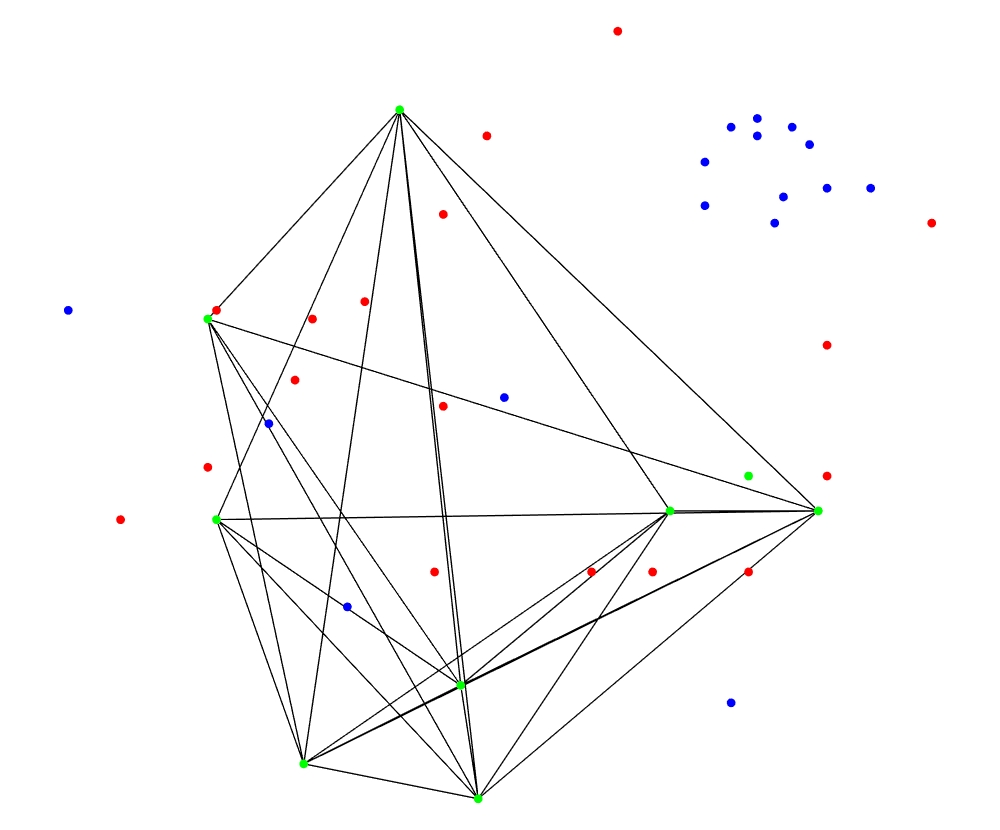
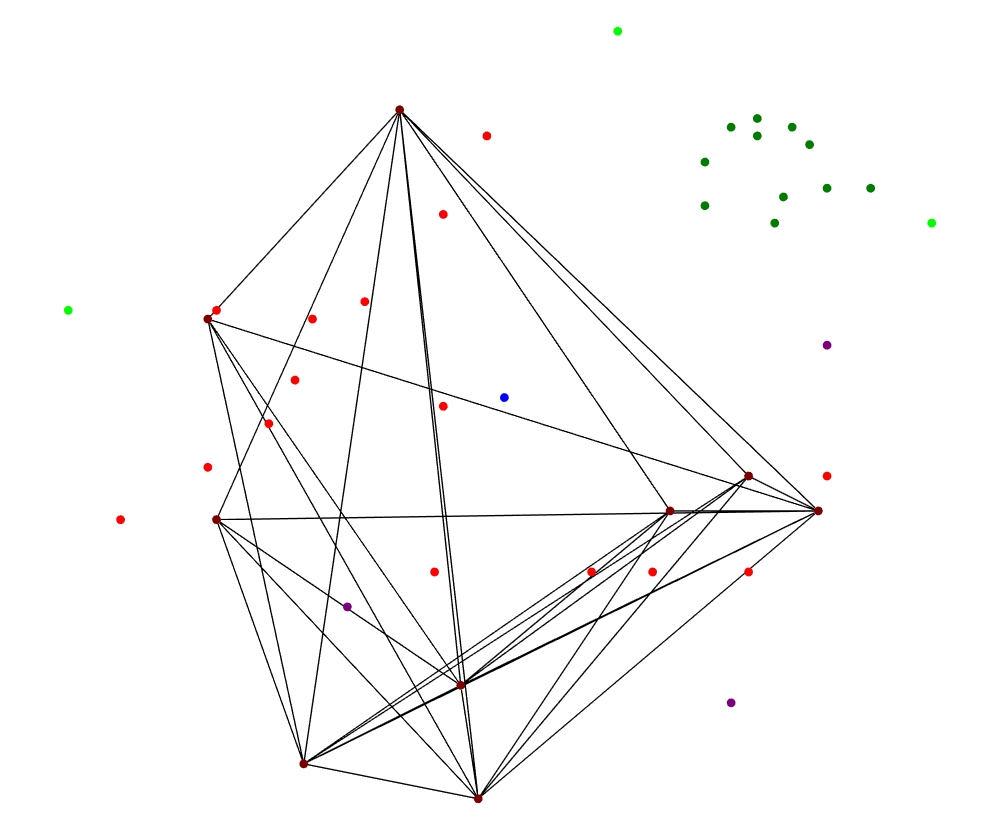
ajouts images

diff --git a/mapcheckin.py b/mapcheckin.py
@@ -26,7 +26,7 @@ def kmeans(k, properties,subgraph) :
 	
 	print "Initialisation des clusters"
 
-	for n in graph.getSubGraph(subgraph).getSubGraph("map").getNodes():
+	for n in graph.getSubGraph(subgraph).getSubGraph("map").getEdges():
 		NodesList.append(n)
 	print ClustersList
 	for i in range (0, k) :
@@ -275,15 +275,15 @@ def colorEdges(graph,subgraph):
 	for e in graph.getSubGraph(subgraph).getSubGraph("map").getEdges():
 		x=int(freq[e]*pas)
 		if freq[e]<(256/pas) and freq[e]>10:
-			viewColor[e]=tlp.Color(0,x,0)
+			viewColor[e]=tlp.Color(0,255,0)
 		elif freq[e]<(511/pas)  and freq[e]>10:
 			x=x-256
-			viewColor[e]=tlp.Color(0,0,x)
+			viewColor[e]=tlp.Color(0,0,255)
 		elif   freq[e]>510 :
 			x=x-510
-			viewColor[e]=tlp.Color(x,0,0)
+			viewColor[e]=tlp.Color(255,0,0)
 
-def colorSpecificEdges(graph,subgraph):
+def colorSpecificEdges(graph,subgraph,limit):
 	freq=graph.getIntegerProperty("freq")
 	viewColor = graph.getColorProperty("viewColor")
 
@@ -294,7 +294,7 @@ def colorSpecificEdges(graph,subgraph):
 	
 	pas=765.0/r
 	for e in graph.getSubGraph(subgraph).getSubGraph("map").getEdges():
-		if freq[e]*pas>510 :
+		if freq[e]>limit :
 			viewColor[e]=tlp.Color(0,0,0)
 		else :
 			viewColor[e]=tlp.Color(255,255,255,0)
@@ -315,7 +315,18 @@ def countFreqPerAttraction(graph,subgraph):
 		for j in graph.getSubGraph(subgraph).getSubGraph("map").getNodes():
 			if X[i]==X[j] and Y[i]==Y[j]:
 				freqAttraction[j]=freqAttraction[j]+1
-				
+
+def countFreqPerAttractionWE(graph):
+	X = graph.getIntegerProperty("X")
+	Y = graph.getIntegerProperty("Y")
+	freqAttraction=graph.getIntegerProperty("FreqAttraction")
+	for subgraph in graph.getSubGraphs():
+		if subgraph.getName()!="mapWE":
+			for i in graph.getSubGraph(subgraph.getName()).getNodes():
+				for j in graph.getSubGraph("mapWE").getNodes():
+					if X[i]==X[j] and Y[i]==Y[j]:
+						freqAttraction[j]=freqAttraction[j]+1	
+							
 def generationColor(graph,subgraph):
 	dico={}
 	X = graph.getIntegerProperty("X")
@@ -333,17 +344,33 @@ def generationColor(graph,subgraph):
 			break
 	return dico					
 def colorAttractionperType(graph, subgraph,dico):
-	"""viewColor = graph.getColorProperty("viewColor")
+	viewColor = graph.getColorProperty("viewColor")
 	type_=graph.getSubGraph(subgraph).getSubGraph("map").getStringProperty("type")
 
 	for i in graph.getSubGraph(subgraph).getSubGraph("map").getNodes():
-		viewColor[i]=dico[type_[i]]"""
-	viewColor = graph.getColorProperty("viewColor")
-	type_=graph.getSubGraph(subgraph).getStringProperty("type")
-
-	for i in graph.getSubGraph(subgraph).getNodes():
 		viewColor[i]=dico[type_[i]]
-		
+		viewColor[i]=dico[type_[i]]
+
+def freqCreightonPavilionperHour(graph,subgraph):
+	id_ = graph.getIntegerProperty("id")
+
+	graph.delNodes(graph.getSubGraph(subgraph).getSubGraph("creightonPavilion").getNodes())
+	Timestamp = graph.getStringProperty("Timestamp")
+	heure = graph.getIntegerProperty("heure")
+	X = graph.getIntegerProperty("X")
+	Y = graph.getIntegerProperty("Y")
+	p=0
+	for n in graph.getSubGraph(subgraph).getNodes():
+		p=p+1
+		if p%(graph.getSubGraph(subgraph).numberOfNodes()/100)==0:
+			print (float(p)/graph.getSubGraph(subgraph).numberOfNodes()*100.0 , "%")
+		if n not in graph.getSubGraph(subgraph).getSubGraph("creightonPavilion").getNodes() and n not in graph.getSubGraph(subgraph).getSubGraph("map").getNodes():
+			if X[n]==32 and Y[n]==33:
+				tmp=graph.getSubGraph(subgraph).getSubGraph("creightonPavilion").addNode()
+				Timestamp[tmp]=Timestamp[n]
+				t=str(Timestamp[n][10:12])
+				heure[tmp]=float(t)
+				id_[tmp]=id_[n]
 def AttractionWE(graph):
 
 	X = graph.getIntegerProperty("X")
@@ -399,12 +426,23 @@ def main(graph):
 	freqAttraction=graph.getIntegerProperty("FreqAttraction")
 	type_=graph.getSubGraph("Sunday").getSubGraph("map").getStringProperty("type")
 	zone=graph.getStringProperty("zone")
+	freq=graph.getSubGraph("Saturday").getSubGraph("map").getIntegerProperty("freq")
+
 	dicoCouleur=generationColor(graph,"Sunday")
 	print dicoCouleur
+	#countFreqPerAttractionWE(graph)
+	freqCreightonPavilionperHour(graph,"Friday")
 	#AttractionWE(graph)
-	colorAttractionperType(graph,"mapWE",dicoCouleur)
+	#colorAttractionperType(graph,"Saturday",dicoCouleur)
+	#colorAttractionperType(graph,"Friday",dicoCouleur)
+
+	#colorAttractionperType(graph,"Sunday",dicoCouleur)
+
 	#classementjour(graph)
 	#checkinjour(graph, "Sunday")
-	#colorEdges(graph,"Saturday")
+	#colorSpecificEdges(graph,"Friday",700)
+	#colorSpecificEdges(graph,"Saturday",900)
+	#colorSpecificEdges(graph,"Sunday",1100)
+
 	#countFreqPerAttraction(graph,"Sunday")
-	#kmeans(3,[freqAttraction],"Saturday")
+	#kmeans(3,[freq],"Saturday")
